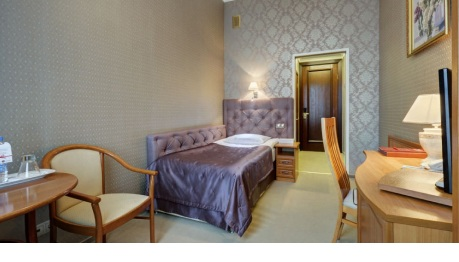
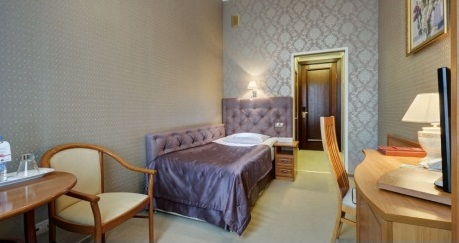
Исправил картинки в room-details #14

diff --git a/src/pages/room-details/room-details.scss b/src/pages/room-details/room-details.scss
@@ -17,6 +17,11 @@
     width: 100%;
   }
 }
+.room-details__img {
+  object-fit: cover;
+  width: 100%;
+  height: 100%;
+}
 .room-details__img-wrapper:first-child {
   flex: 0 0 981%*100/1440;
   @media (max-width: 640px) {
@@ -41,17 +46,19 @@
   background-size: cover;
   @media (max-width: 640px) {
     flex: 0 0 50%;
-    margin-top: -1%;
+    height: 100%;
+    // margin-top: -1%;
   }
 }
 .room-details__img-container:nth-child(2) {
   flex: 0 0 100%;
   height: 50%;
-  margin-top: -2.79897%;
+  // margin-top: -2.5%;
   background-size: cover;
   @media (max-width: 640px) {
     flex: 0 0 50%;
-    margin-top: -1%;
+    height: 100%;
+    // margin-top: -1%;
   }
 }
 .room-details__wrapper {
@@ -67,7 +74,7 @@
   width: $page-container;
   margin: 0 auto;
   // border: 1px solid red;
-  padding-top: 60px;
+  padding-top: 66px;
   @media (max-width: 1440px) {
     width: $page-container;
   }
